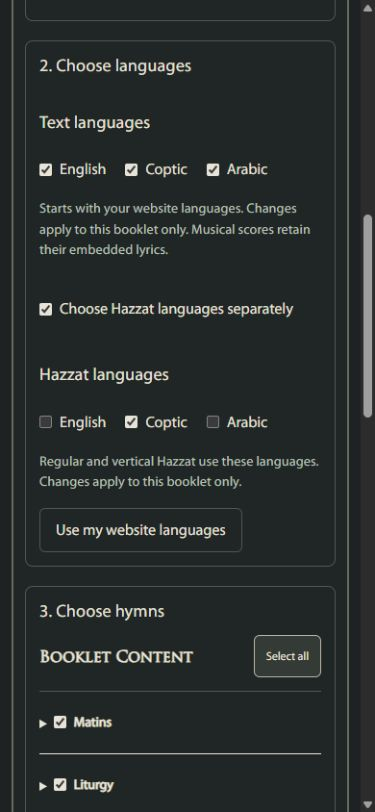
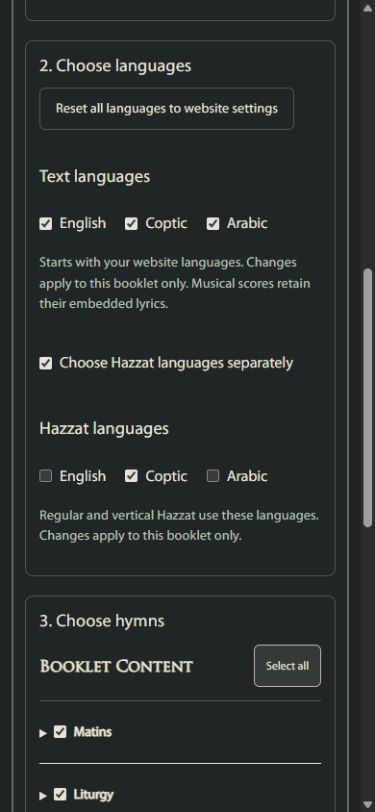
Clarify and relocate the booklet language reset control

diff --git a/src/Components/BookletDetails.test.tsx b/src/Components/BookletDetails.test.tsx
@@ -54,7 +54,7 @@ describe("booklet builder", () => {
         expect(screen.queryByRole("link", { name: "Download PDF" })).not.toBeInTheDocument();
         expect(screen.getByRole("button", { name: "Text Only", exact: true })).toBeInTheDocument();
         expect(screen.getByRole("button", { name: "Review booklet", exact: true })).toBeDisabled();
-        fireEvent.click(screen.getByRole("button", { name: "Use my website languages", exact: true }));
+        fireEvent.click(screen.getByRole("button", { name: "Reset all languages to website settings", exact: true }));
         expect(screen.getByRole("button", { name: "Text Only", exact: true })).toBeInTheDocument();
         expect(settings.setContentLanguages).not.toHaveBeenCalled();
         expect(settings.userSettings.contentLanguages).toEqual([ContentLanguage.English]);
@@ -79,6 +79,8 @@ describe("booklet builder", () => {
         expect(screen.getAllByRole("heading", { level: 3 }).map(h => h.textContent)).toEqual([
             "1. Choose formats", "2. Choose languages", "3. Choose hymns", "4. Arrange your booklet", "5. Review and download"
         ]);
+        const languageHeading = screen.getByRole("heading", { name: "2. Choose languages", exact: true });
+        expect(within(languageHeading.parentElement!).getByRole("button", { name: "Reset all languages to website settings", exact: true })).toBeEnabled();
         const shared = within(screen.getByRole("group", { name: "Content languages", exact: true }));
         fireEvent.click(shared.getByRole("checkbox", { name: "Arabic", exact: true }));
         fireEvent.click(screen.getByLabelText("Choose Hazzat languages separately"));
@@ -121,7 +123,7 @@ describe("booklet builder", () => {
             fireEvent.click(screen.getByLabelText("Choose Hazzat languages separately"));
             fireEvent.click(within(screen.getByRole("group", { name: "Hazzat languages", exact: true })).getByLabelText("English"));
         }
-        fireEvent.click(screen.getByRole("button", { name: "Use my website languages", exact: true }));
+        fireEvent.click(screen.getByRole("button", { name: "Reset all languages to website settings", exact: true }));
         const groups = separate ? ["Text languages", "Hazzat languages"] : ["Content languages"];
         groups.forEach(name => {
             const choices = within(screen.getByRole("group", { name, exact: true }));

diff --git a/src/Components/BookletDetails.tsx b/src/Components/BookletDetails.tsx
@@ -241,7 +241,10 @@ function BookletDetails() {
                 <p className="bookletHint">{strings.bookletFormatsHint}</p>
                 </section>
                 <section className="bookletStep" aria-labelledby="bookletLanguagesTitle">
-                <h3 id="bookletLanguagesTitle">{strings.bookletLanguagesHeading}</h3>
+                <div className="bookletStepHeader">
+                    <h3 id="bookletLanguagesTitle">{strings.bookletLanguagesHeading}</h3>
+                    <button type="button" className="bookletChoice" onClick={() => { setLanguages([...userSettings.contentLanguages]); setHazzatLanguages([...userSettings.contentLanguages]); }}>{strings.bookletUseWebsiteLanguages}</button>
+                </div>
                 <ContentLanguageChoices included={languages} onChange={setLanguages} hint={strings.bookletLanguagesHint}
                     legend={separateHazzatLanguages ? strings.bookletTextLanguages : undefined} />
                 {((requestedFormats.includes("text") && requestedFormats.some(kind => kind === "regular" || kind === "vertical")) || separateHazzatLanguages) && <label className="bookletSeparateLanguages">
@@ -253,7 +256,6 @@ function BookletDetails() {
                 </label>}
                 {separateHazzatLanguages && <ContentLanguageChoices included={hazzatLanguages} onChange={setHazzatLanguages}
                     legend={strings.bookletHazzatLanguages} hint={strings.bookletHazzatLanguagesHint} />}
-                <button type="button" className="bookletChoice" onClick={() => { setLanguages([...userSettings.contentLanguages]); setHazzatLanguages([...userSettings.contentLanguages]); }}>{strings.bookletUseWebsiteLanguages}</button>
                 </section>
                 <section className="bookletStep" aria-labelledby="bookletHymnsTitle">
                 <h3 id="bookletHymnsTitle">{strings.bookletHymnsHeading}</h3>

diff --git a/src/l8n.ts b/src/l8n.ts
@@ -43,7 +43,7 @@ export const strings = new LocalizedStrings({
         bookletNoLanguages: "No languages selected",
         bookletUnavailableLanguages: "Unavailable: {0}",
         bookletLanguagesHint: "Starts with your website languages. Changes apply to this booklet only. Musical scores retain their embedded lyrics.",
-        bookletUseWebsiteLanguages: "Use my website languages",
+        bookletUseWebsiteLanguages: "Reset all languages to website settings",
         noSelectedLanguageContent: "No content is available in your selected languages. Change the content languages in Settings to see more.",
         bookletTextHazzat: "Text + Hazzat",
         bookletTextVerticalHazzat: "Text + Vertical Hazzat",
@@ -364,7 +364,7 @@ export const strings = new LocalizedStrings({
         bookletNoLanguages: "لم يتم اختيار لغات",
         bookletUnavailableLanguages: "غير متاح: {0}",
         bookletLanguagesHint: "تبدأ بلغات الموقع المفضّلة لديك. تنطبق التغييرات على هذا الكتيّب فقط. تحتفظ النوتة الموسيقية بالكلمات المضمّنة فيها.",
-        bookletUseWebsiteLanguages: "استخدم لغاتي في الموقع",
+        bookletUseWebsiteLanguages: "إعادة تعيين جميع اللغات إلى إعدادات الموقع",
         noSelectedLanguageContent: "لا يتوفر محتوى باللغات المحددة. غيّر لغات المحتوى في الإعدادات لعرض المزيد.",
         bookletTextHazzat: "النص والهزات",
         bookletTextVerticalHazzat: "النص والهزات العمودية",

diff --git a/src/Components/BookletDetails.css b/src/Components/BookletDetails.css
@@ -125,6 +125,9 @@
 .bookletBuilder fieldset { min-width: 0; }
 .bookletStep { border: 1px solid var(--rule, #d7d2c7); border-radius: 8px; padding: 20px; margin-block: 20px; }
 .bookletStep > h3:first-child { margin-block-start: 0; }
+.bookletStepHeader { display: flex; align-items: center; justify-content: space-between; flex-wrap: wrap; gap: 12px 20px; margin-block-end: 14px; }
+.bookletBuilder .bookletStepHeader h3 { margin: 0; }
+.bookletStepHeader .bookletChoice { font-size: .9rem; max-width: 100%; text-align: start; }
 .bookletFormatCustomization summary { cursor: pointer; }
 .bookletSeparateLanguages { margin-block: 12px; }
 .bookletLanguageSummary > div { display: flex; flex-wrap: wrap; gap: 6px 16px; margin-block: 8px; }
